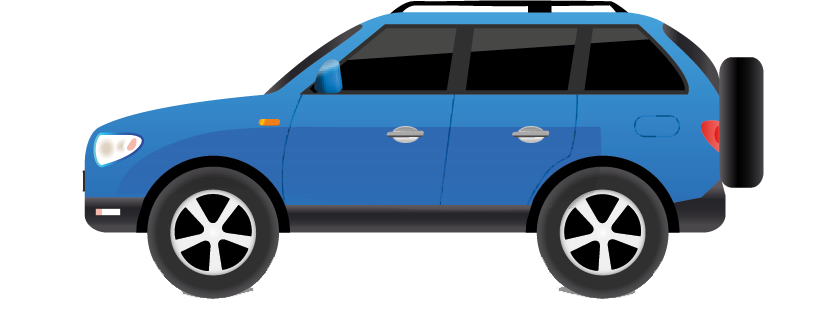
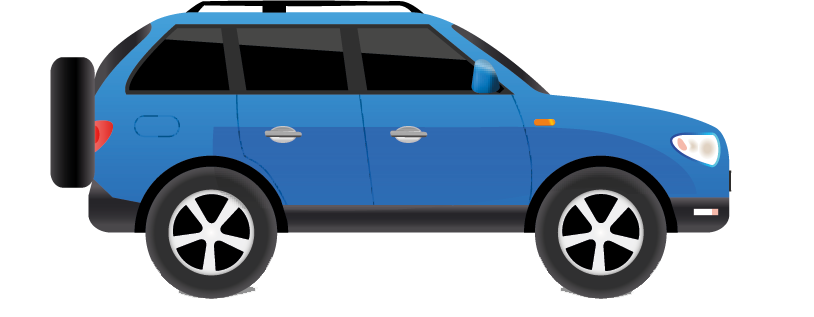
:hammer: changed car order

diff --git a/www/index.html b/www/index.html
@@ -21,8 +21,6 @@
         </div>
         <div class="scene" style="background-image: url(img/street.jpg);" data-500="transform:translate3d(100%,0%,0); opacity:0" data-1500="transform:translate3d(0%,0%,0); opacity:1;" data-2000="" data-3000="transform:translate3d(-100%,0%,0);">
             <!-- <img src="img/car_front.png" data-1500="position:absolute;opacity:1; left:450px; top:450px; height:50px;" data-2000="top:700px; height:250px; left:140px"> -->
-            <img src="img/car_side.png" data-1800="position:absolute;opacity:1; right:0px; top:400px; height:140px;" data-2000="right:800px;">
-
         </div>
         <div class="scene" style="background-image: url(img/train_entrance.jpg);" data-0="opacity:0" data-2000="transform:translate3d(100%,0%,0);" data-3000="transform:translate3d(0%,0%,0);opacity:1;" data-3500="" data-4500="transform:translate3d(-100%,0%,0);">
             <!-- <img src="img/queue.png" style="position:absolute; bottom:0px; left: 400px; height: 400px;" /> -->
@@ -36,7 +34,10 @@
         <div class="scene" style="background-image: url(img/museum.jpg);" data-0="opacity:0" data-6500="transform:translate3d(100%,0%,0);" data-7500="transform:translate3d(0%,0%,0);opacity:1;" data-8000="" data-9000="transform:translate3d(-100%,0%,0);">
         </div>
         <div class="scroll">
+
             <img src="img/museum.jpg" data-0="position:absolute; top:300px; left: 85px; width: 600px; display:inline" data-500="" data-1500="top:380px; left: 420px; width: 120px;" data-2000="display:none">
+            <img src="img/car_side.png" data-0="position:absolute; display:none" data-1600="display:inline; left:-20px; top:440px; height:140px;" data-2200="left:800px;display:none">
+
             <img src="img/character_anim.png" data-0="position:absolute; top:325px; left: 700px; width: 100px;opacity:1" data-500="" data-1500="top:420px; left: 150px; width: 60px;" data-2700="top:420px;" data-2900="top:530px; left: 150px; width:40px" data-3200=""
                 data-3300="left: 480px;" data-3500="opacity:0" data-4400="top:200px; left:120px; width:100px" data-4500="opacity:1;" data-4950="" data-5050="opacity:0" data-6000="top:280px; left:500px; width:120px;" data-6050="opacity:1" data-7400="" data-7500="top:500px; left:500px;width:40px">
 
